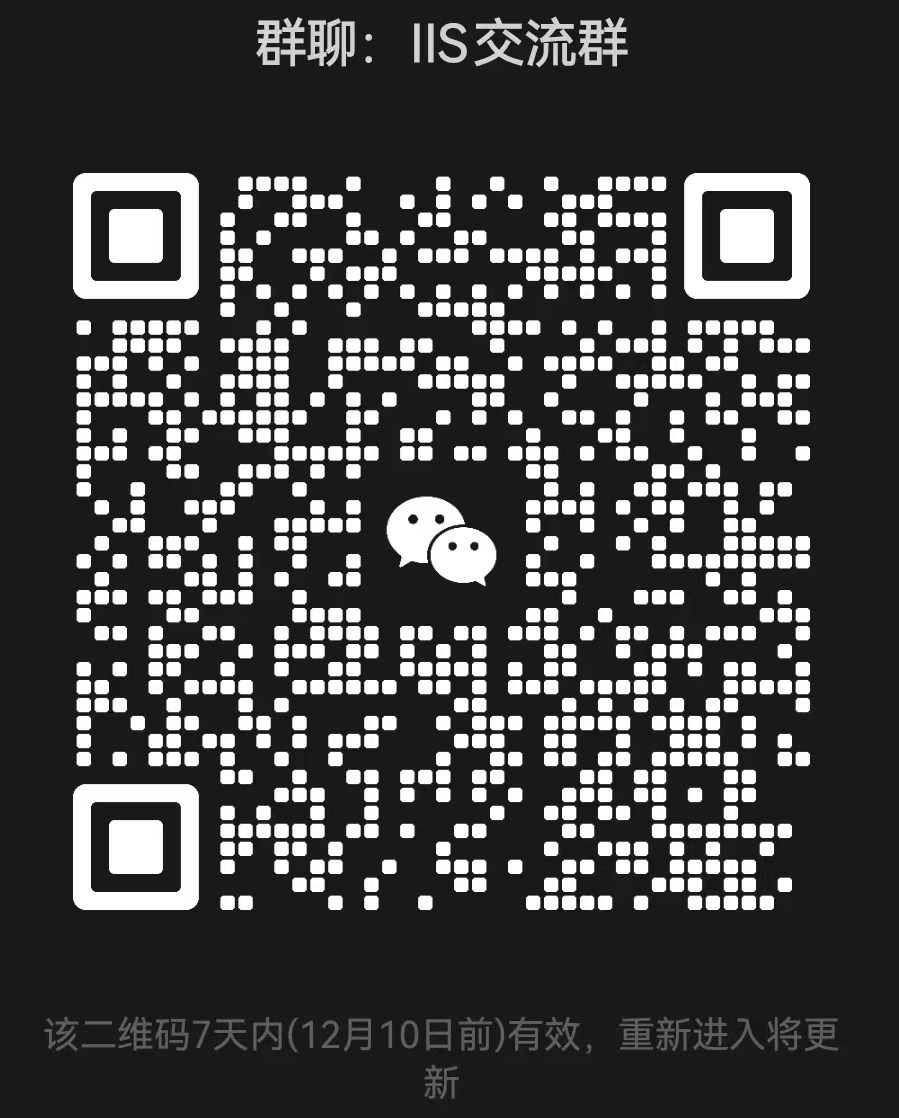
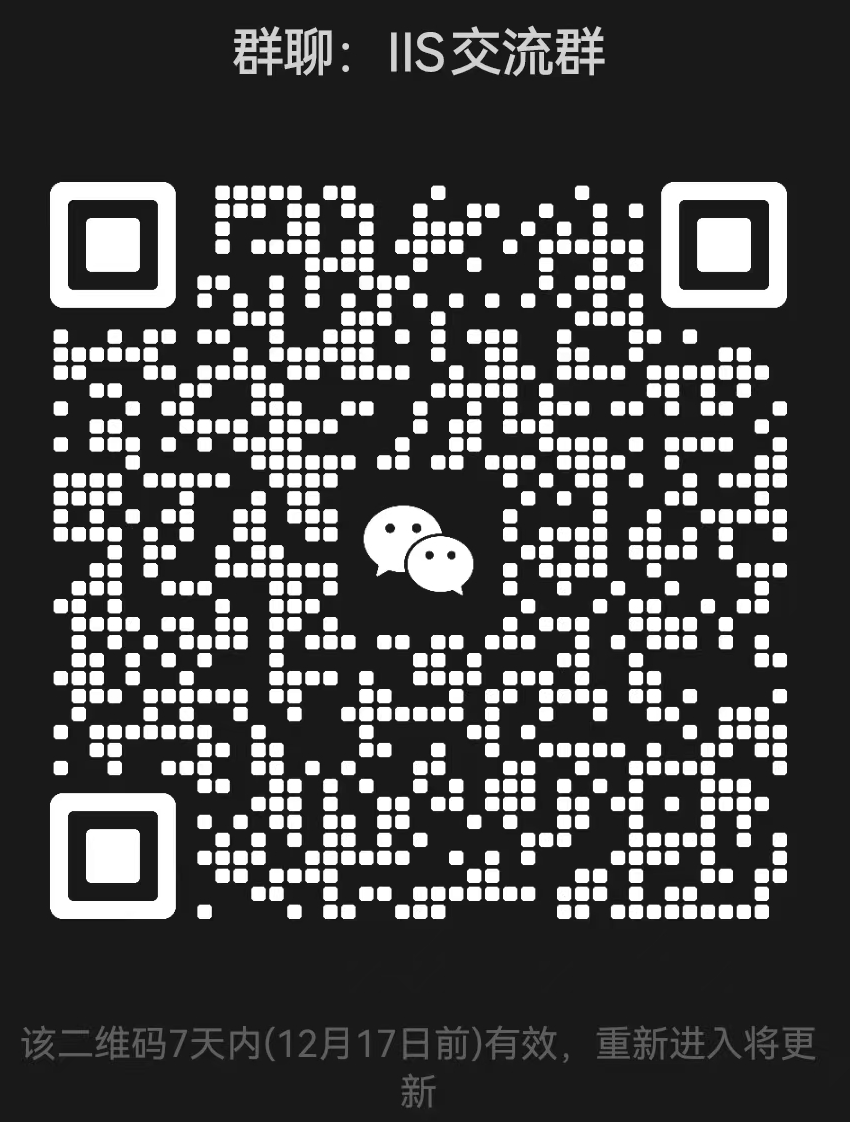
Update QR and readme.

diff --git a/README.md b/README.md
@@ -4,6 +4,10 @@
 
 项目地址：[https://github.com/SleepySoft/IntelligenceIntegrationSystem](https://github.com/SleepySoft/IntelligenceIntegrationSystem/tree/dev)
 
+## 临时下线通知
+
+20251210: 由于域名账户连同账号下域名被服务商ban，所以当前无法通过域名访问该Demo，正在和客服沟通恢复中。
+
 ## 起因
 
 现在的新闻素质堪忧，特别是国内媒体。
